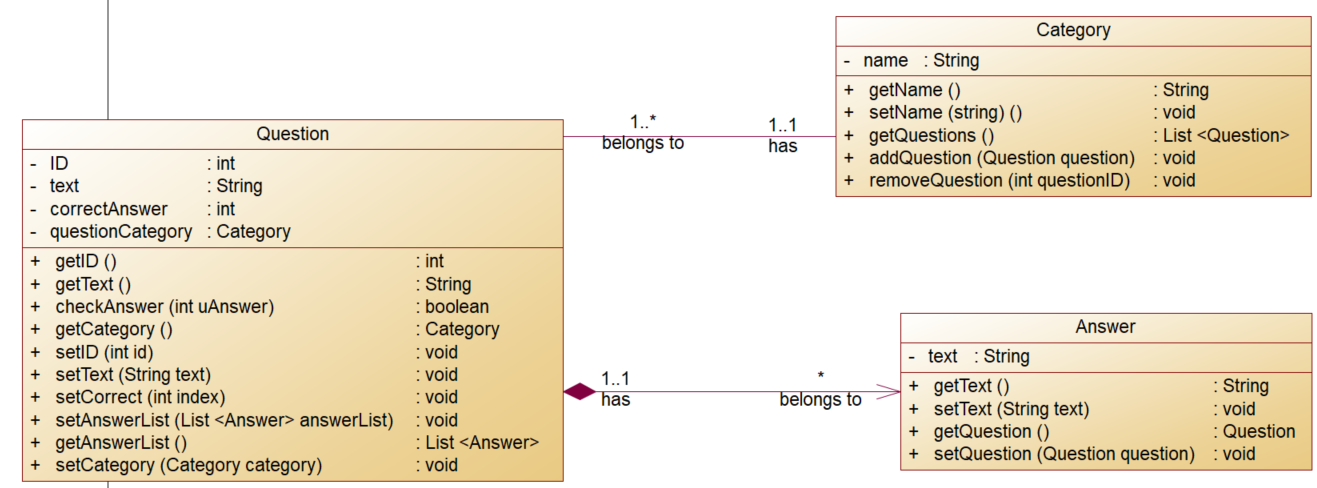
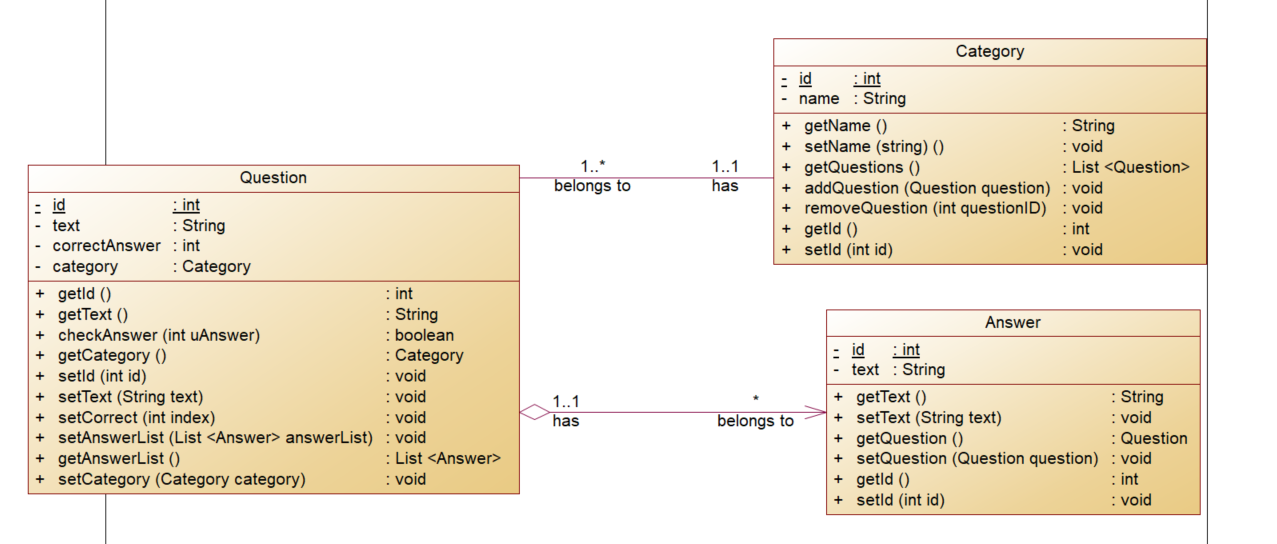
3+2 = 5

diff --git a/src/main/java/de/hda/fbi/db2/stud/impl/Lab01DataImpl.java b/src/main/java/de/hda/fbi/db2/stud/impl/Lab01DataImpl.java
@@ -15,6 +15,8 @@ import java.util.Map;
 public class Lab01DataImpl extends Lab01Data {
   HashMap<Integer, Question> questionList = new HashMap<>();
   HashMap<String, Category> categoryList = new HashMap<>();
+  private int catId = 0;
+  private int ansId = 0;
 
   @Override
   public List<Question> getQuestions() {
@@ -41,7 +43,7 @@ public class Lab01DataImpl extends Lab01Data {
             Integer.parseInt(row[6]), categoryBuffer);
 
         for (int i = 2; i < 6; i++) {
-          answerBuffer.add(new Answer(row[i]));
+          answerBuffer.add(new Answer(ansId++, row[i]));
         }
         for (Answer a: answerBuffer) {
           a.setQuestion(questionBuffer);
@@ -97,7 +99,7 @@ public class Lab01DataImpl extends Lab01Data {
       return categoryList.get(catName);
     } else {
       Category category;
-      category = new Category(catName);
+      category = new Category(catId++, catName);
       categoryList.put(catName, category);
       return category;
     }

diff --git a/src/main/java/de/hda/fbi/db2/stud/entity/Category.java b/src/main/java/de/hda/fbi/db2/stud/entity/Category.java
@@ -12,7 +12,8 @@ public class Category {
    * constructor for categories.
    * @param name category name
    */
-  public Category(String name) {
+  public Category(int id, String name) {
+    this.id = id;
     this.name = name;
     this.questionList = new ArrayList<>();
   }

diff --git a/src/main/java/de/hda/fbi/db2/stud/entity/Answer.java b/src/main/java/de/hda/fbi/db2/stud/entity/Answer.java
@@ -5,8 +5,9 @@ public class Answer {
   private String text;
   private Question question;
 
-  public Answer(String text) {
+  public Answer(int id, String text) {
     this.text = text;
+    this.id = id;
   }
 
   /* -------Getter and Setter-------------*/
